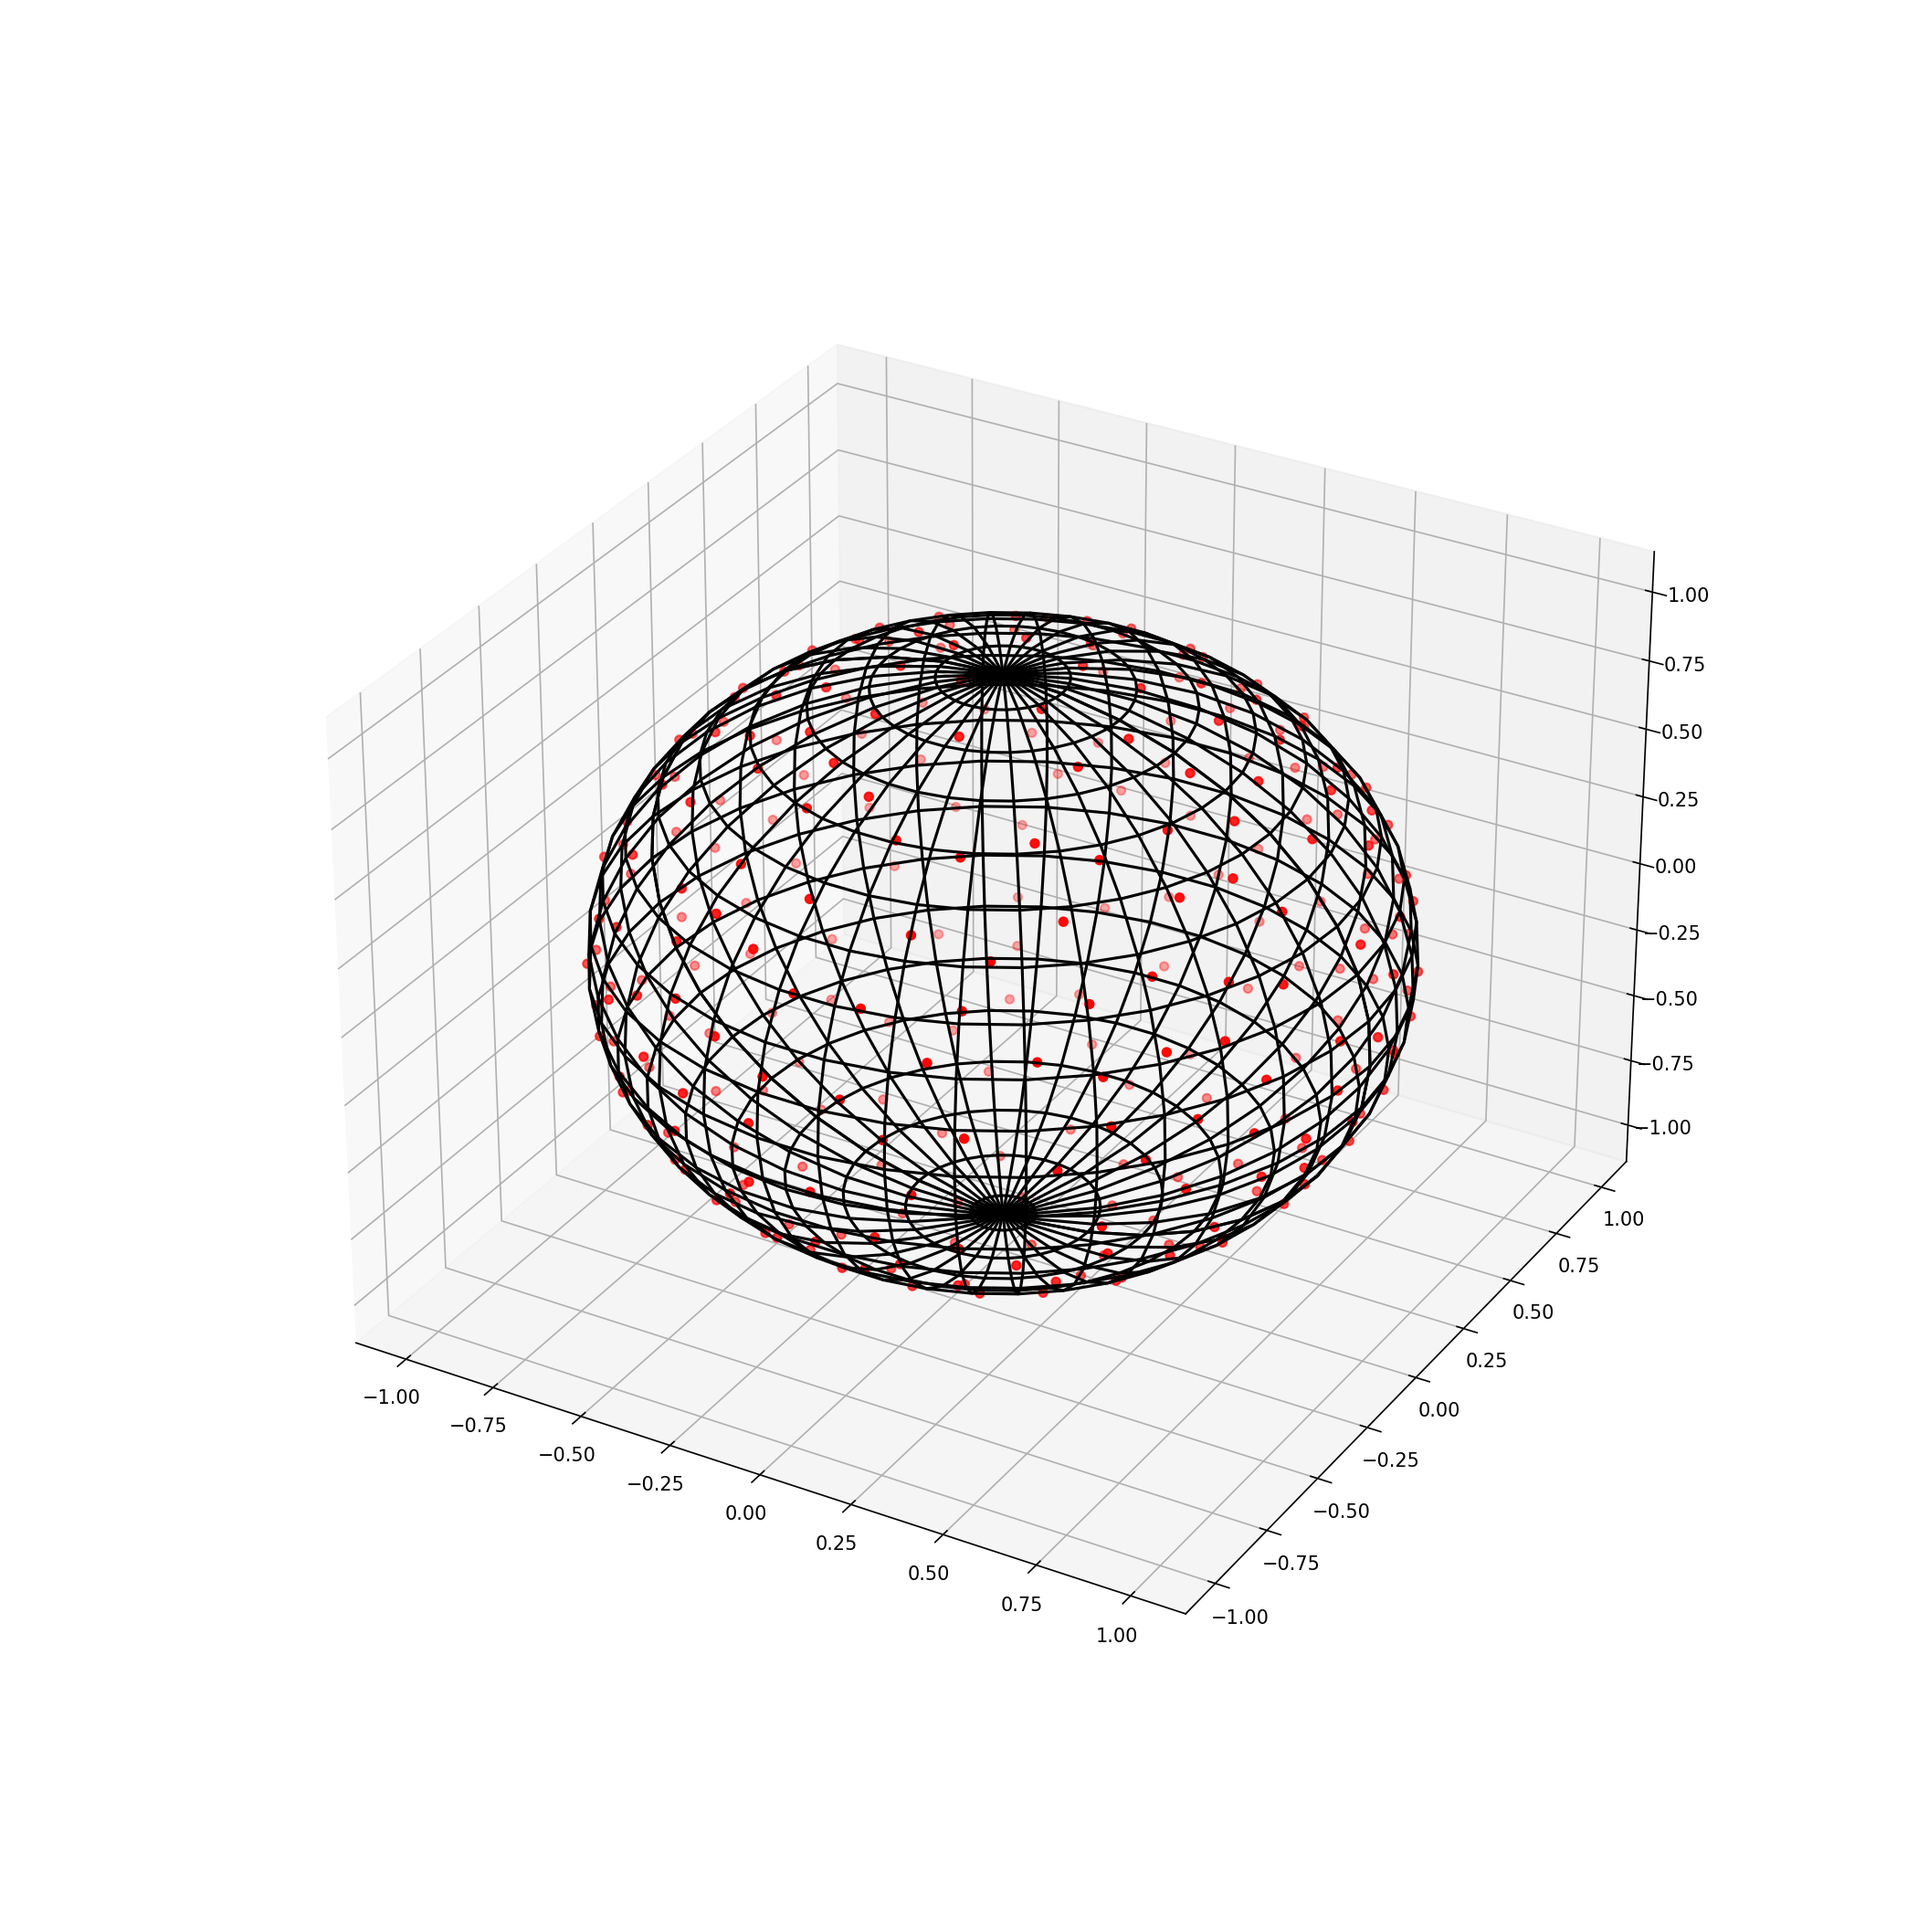
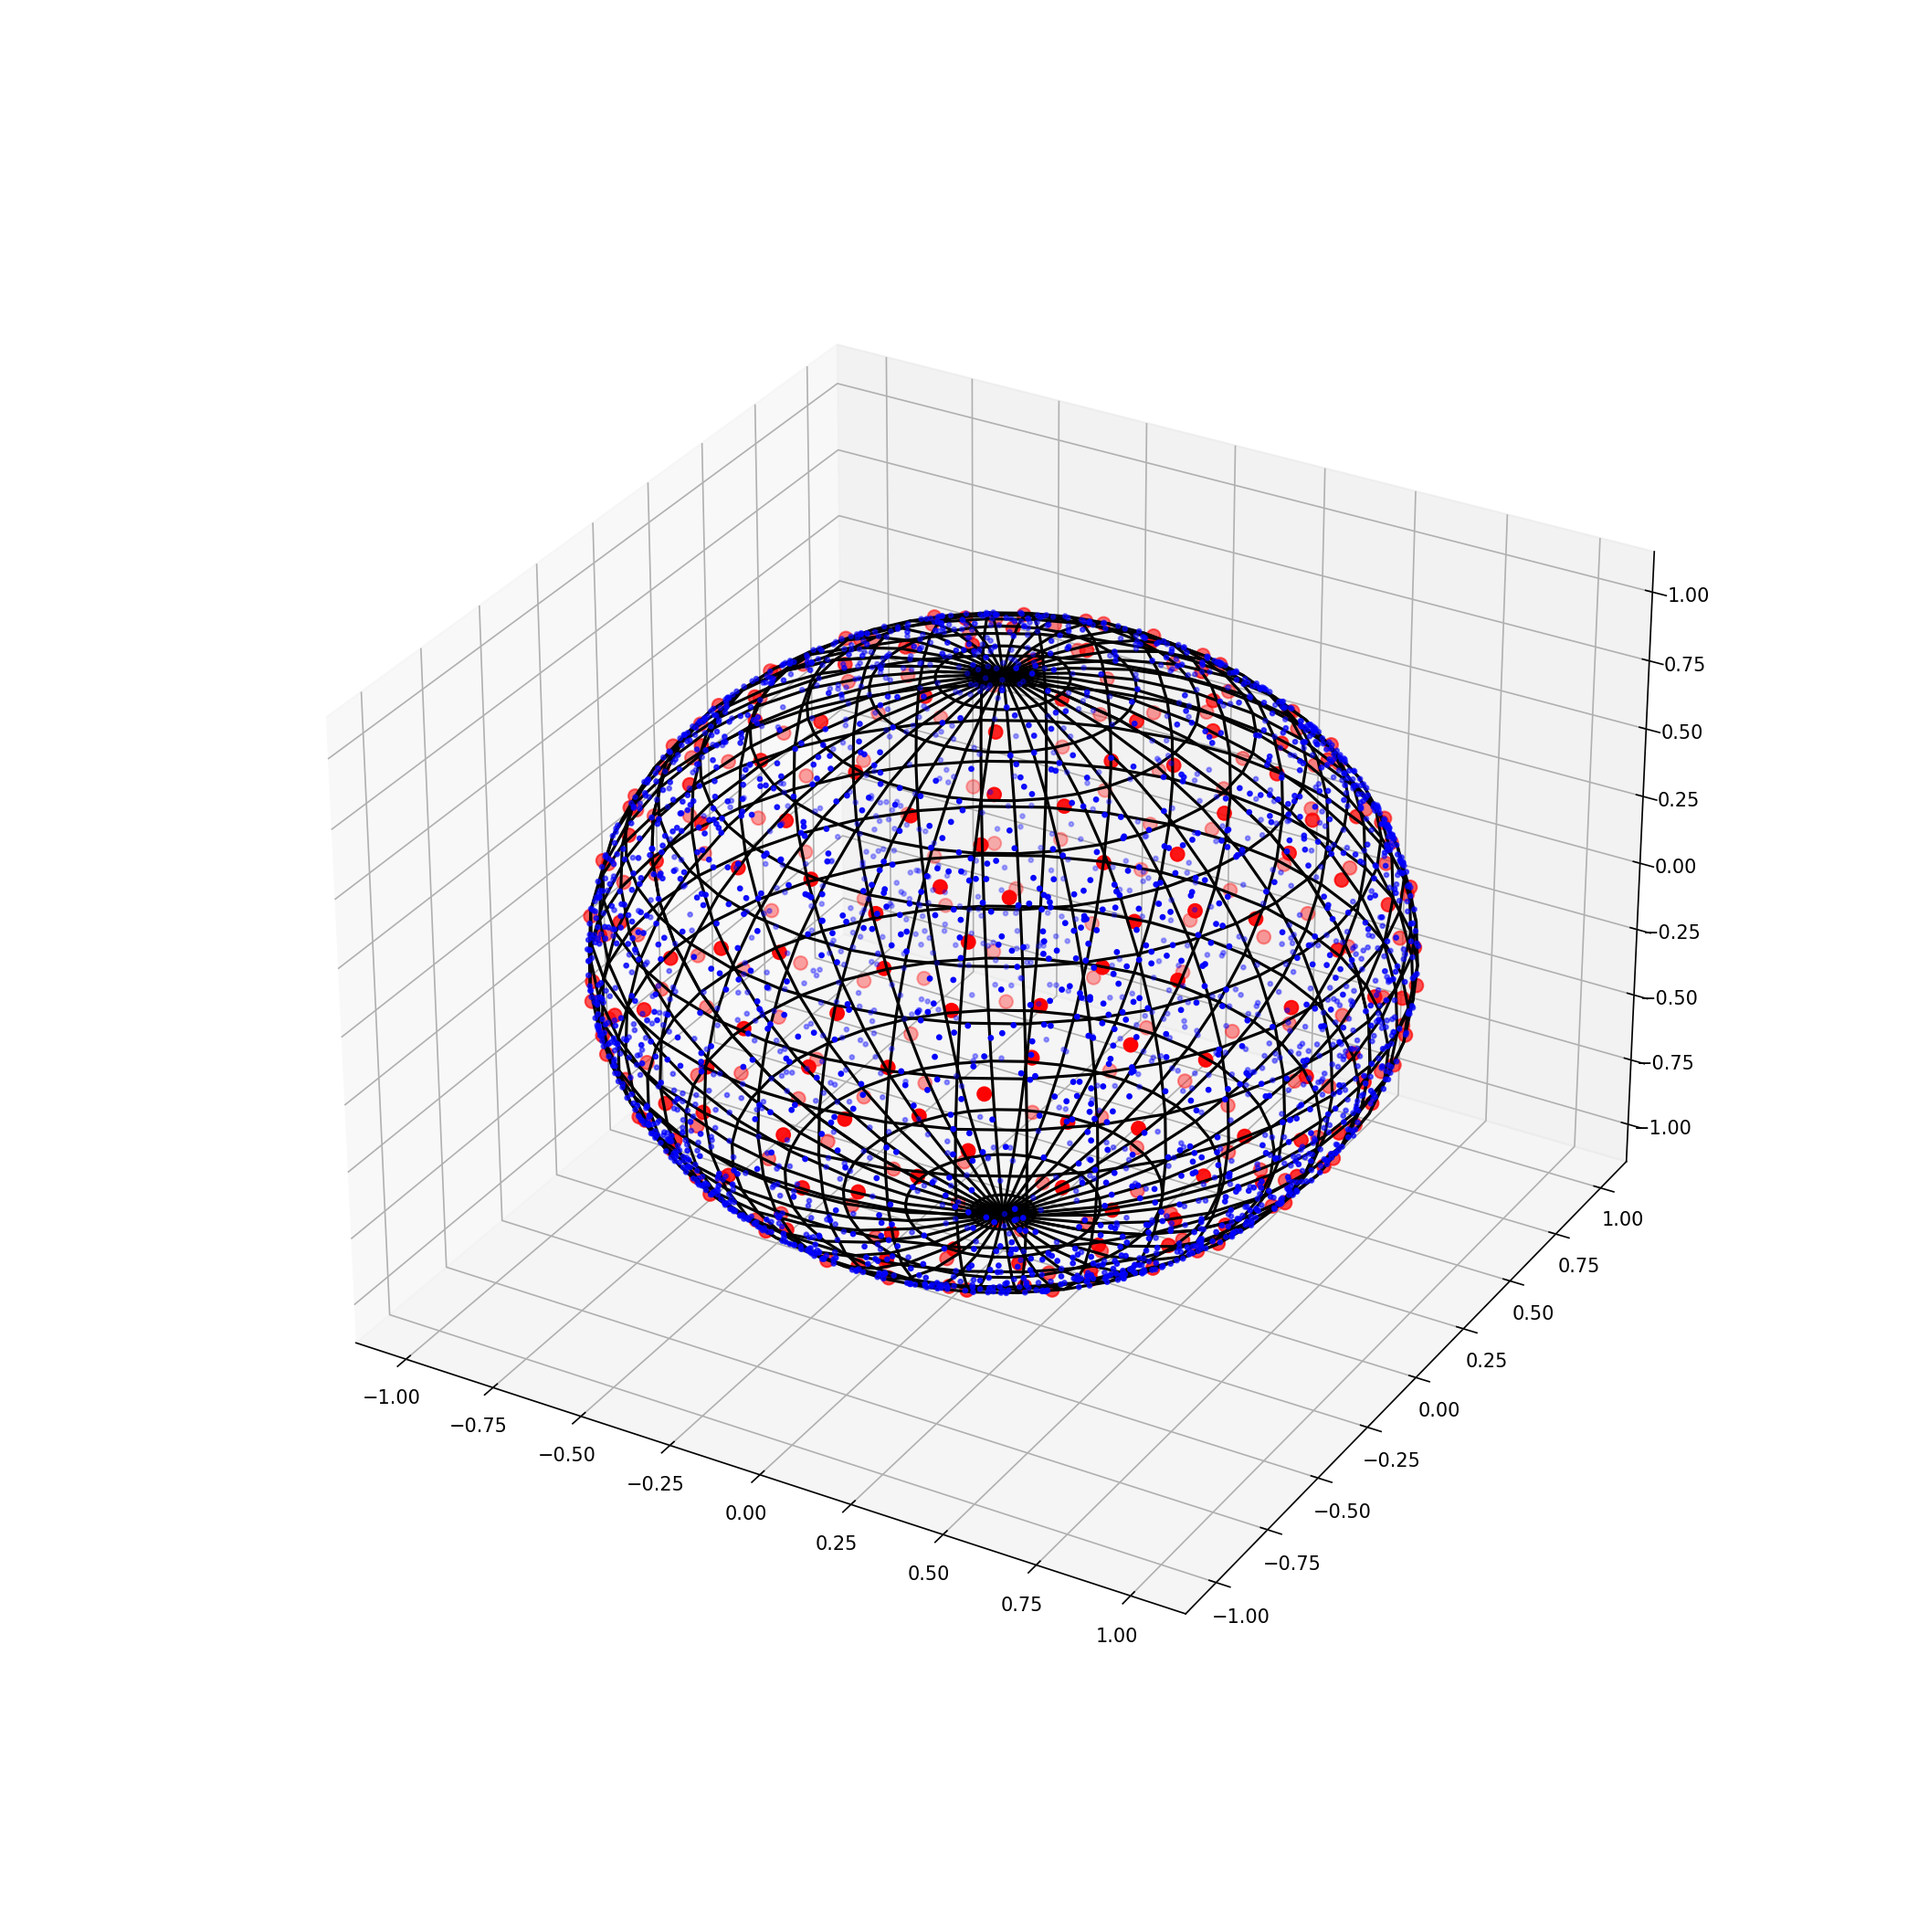
I improved the script and converted into functions

Changed region(s): [[0.2786, 0.3095, 0.7429, 0.681]]

diff --git a/points_on_sphere_distance.py b/points_on_sphere_distance.py
@@ -12,68 +12,90 @@ def distance_two_points(P1_xyz, P2_xyz):
     distance = math.sqrt(X_dis + Y_dis + Z_dis)
     return distance
 
-# This draws a sphere
-phi = np.linspace(0, np.pi, 20)
-theta = np.linspace(0, 2 * np.pi, 40)
-x = np.outer(np.sin(theta), np.cos(phi))
-y = np.outer(np.sin(theta), np.sin(phi))
-z = np.outer(np.cos(theta), np.ones_like(phi))
+def Points_on_sphere_with_distance(points=500, DISTANCE=0.15, Discarded=False, wireframe=True, Show=True, GIF=True, debug=False):
+    # This draws the wireframe of a sphere
+    phi = np.linspace(0, np.pi, 20)
+    theta = np.linspace(0, 2 * np.pi, 40)
+    x = np.outer(np.sin(theta), np.cos(phi))
+    y = np.outer(np.sin(theta), np.sin(phi))
+    z = np.outer(np.cos(theta), np.ones_like(phi))
 
+    # We store the coordinates of the points in these lists
+    x_list = []
+    y_list = []
+    z_list = []
+    # Some points are discarded because they are too close to other points
+    x_list_discard = []
+    y_list_discard = []
+    z_list_discard = []
 
-space = [-1, 1]
-points = 1000
+    for i in range(points):
+        # Pick random points
+        X = random.uniform(-1, 1)
+        Y = random.uniform(-1, 1)
+        Z = random.uniform(-1, 1)  # (0,1) generates points only in the Northern Hemisphere
 
-x_list = []
-y_list = []
-z_list = []
+        # This makes sure the points are on the surface of the sphere
+        Vector = (math.sqrt((X ** 2) + (Y ** 2) + (Z ** 2)))
+        X = X / Vector
+        Y = Y / Vector
+        Z = Z / Vector
 
-x_list_discard = []
-y_list_discard = []
-z_list_discard = []
+        ADD = True
+        for i in range(len(x_list)):
+            # This function calculates the 3D distance between two points: P1=[x1, y1, z1], P2=[x2, y2, z2]
+            Distance = distance_two_points([X, Y, Z], [x_list[i], y_list[i], z_list[i]])
+            if debug:
+                print("point1 =", X, Y, Z)
+                print("point2 =", x_list[i], y_list[i], z_list[i])
+                print(i, Distance)
+                print()
+            # If the Distance is smaller than decided the points are too close and they are discarded
+            if Distance < DISTANCE:
+                ADD = False
+                break
+        if ADD:
+            x_list.append(X)
+            y_list.append(Y)
+            z_list.append(Z)
+        else:
+            x_list_discard.append(X)
+            y_list_discard.append(Y)
+            z_list_discard.append(Z)
 
-for i in range(points):
-    X = random.uniform(-1, 1)
-    Y = random.uniform(-1, 1)
-    Z = random.uniform(-1, 1)        # (0,1) generates points only in the Northern Hemisphere
+    if debug:
+        for i in range(len(x_list)):
+            print(i, x_list[i], y_list[i], z_list[i])
+    print("points on the sphere =", len(x_list))
 
-    Vector = (math.sqrt((X**2) + (Y**2) + (Z**2)))
-    X = X / Vector
-    Y = Y / Vector
-    Z = Z / Vector
+    # Plot the data
+    fig, ax = plt.subplots(1, 1, subplot_kw={'projection': '3d', 'aspect': 'auto'}, figsize=(14, 14))
+    # Plot the wireframe of the sphere
+    if wireframe:
+        ax.plot_wireframe(x, y, z, color='k', rstride=1, cstride=1)
+    # Plot the points
+    ax.scatter(x_list, y_list, z_list, s=50, c='r', zorder=10)
+    # Plot the discarded points with a different colour
+    if Discarded:
+        ax.scatter(x_list_discard, y_list_discard, z_list_discard, s=5, c='b', zorder=10)
 
-    ADD = True
-    for i in range(len(x_list)):
-        Distance = distance_two_points([X, Y, Z], [x_list[i], y_list[i], z_list[i]])
-        #print("point1 =", X, Y, Z)
-        #print("point2 =", x_list[i], y_list[i], z_list[i])
-        #print(i, Distance)
-        #print()
-        if Distance < 0.15:
-            ADD = False
-            break
-    if ADD:
-        x_list.append(X)
-        y_list.append(Y)
-        z_list.append(Z)
-    else:
-        x_list_discard.append(X)
-        y_list_discard.append(Y)
-        z_list_discard.append(Z)
+    # Create a random seed to save the image
+    random_seed = str(random.random())[2:6]
 
-#for i in range(len(x_list)):
-#    print(i, x_list[i], y_list[i], z_list[i])
-print(len(x_list))
+    # Save plot
+    plt.savefig("media/Sphere_distance_points_" + str(points) + "_real_" + str(len(x_list)) + "_s" + random_seed + ".png", format='png', dpi=150)
+    if Show:
+        plt.show()
 
-fig, ax = plt.subplots(1, 1, subplot_kw={'projection':'3d', 'aspect':'auto'}, figsize=(14, 14))
-ax.plot_wireframe(x, y, z, color='k', rstride=1, cstride=1)
-ax.scatter(x_list, y_list, z_list, s=20, c='r', zorder=10)
-#ax.scatter(x_list_discard, y_list_discard, z_list_discard, s=20, c='b', zorder=10)
-plt.savefig("media/Sphere_distance_points_" + str(points) + "_real_" + str(len(x_list)) + ".png", format='png', dpi=150)
-plt.show()
+    def rotate(angle):
+        ax.view_init(azim=angle)
+    if GIF:
+        # rot_animation = animation.FuncAnimation(fig, rotate, frames=np.arange(0, 362, 2), interval=100)     # Smooth and slow, but it is 70MB
+        rot_animation = animation.FuncAnimation(fig, rotate, frames=np.arange(0, 362, 5), interval=200)  # Fast, it is 30MB
+        rot_animation.save("media_gif/Sphere_distance_points_" + str(points) + "_real_" + str(len(x_list)) + "_s" + random_seed + ".gif", dpi=150, writer="imagemagick")
+    plt.close()
+    return None
 
-
-def rotate(angle):
-    ax.view_init(azim=angle)
-
-rot_animation = animation.FuncAnimation(fig, rotate, frames=np.arange(0, 362, 2), interval=100)
-rot_animation.save("media_gif/Sphere_distance_points_" + str(points) + "_real_" + str(len(x_list)) + ".gif", dpi=150, writer="imagemagick")
+# test the code
+if __name__ == "__main__":
+    Points_on_sphere_with_distance(points=3000, DISTANCE=0.35, Discarded=False, wireframe=False, Show=True, GIF=True, debug=False)

diff --git a/README.md b/README.md
@@ -1,12 +1,25 @@
 These scripts can be used to draw spheres and points on a sphere.
 
 Random points on a sphere.
-
+points_on_sphere.py
 ![sphere1](media/Sphere_points_200.png)
 
 ![sphere2](media/Sphere_points_1000.png)
 
 
 Equally distance points on a sphere.
+points_on_sphere_distance.py
 
-![sphere3](media/Sphere_distance_points_3000_real_303.png)
+The points that are too close to other points are discarded.
+![sphere3](media/Sphere_distance_points_3000_real_306.png)
+
+this is the same figure as a gif
+![sphere3](media_gif/Sphere_distance_points_3000_real_306.gif)
+
+
+In this figure I plotted the discarded points in blue.
+![sphere4](media/Sphere_distance_points_3000_real_303.png)
+
+
+without the wireframe
+![sphere5](media/Sphere_distance_points_3000_real_301_s8418.png)
